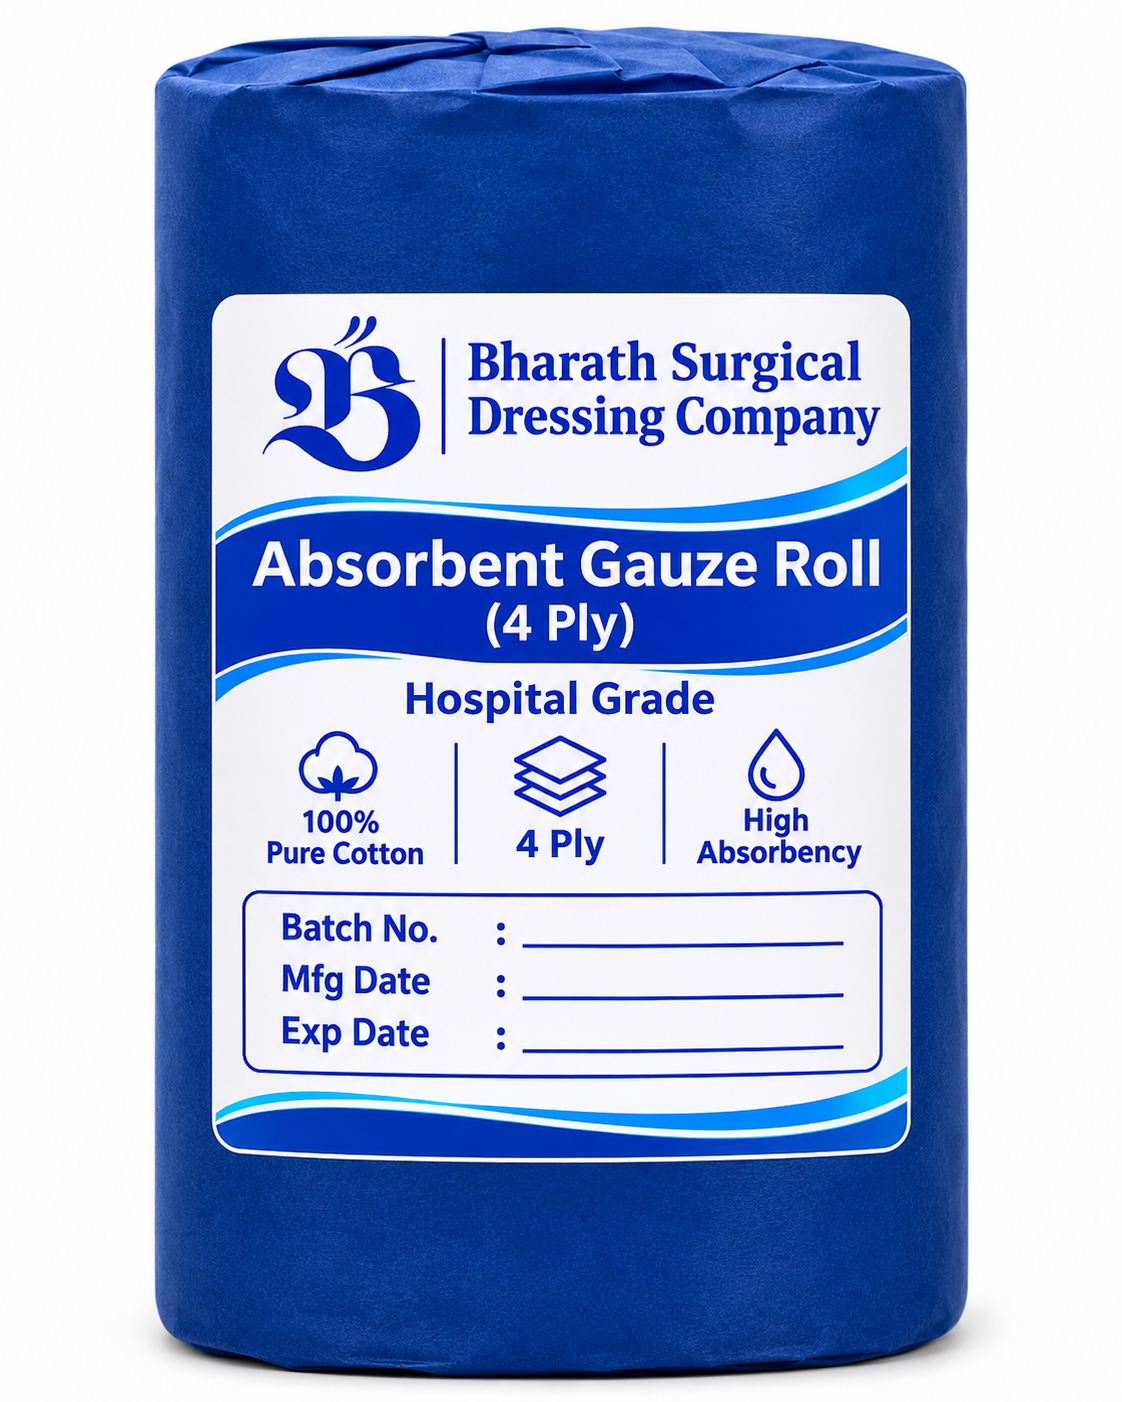
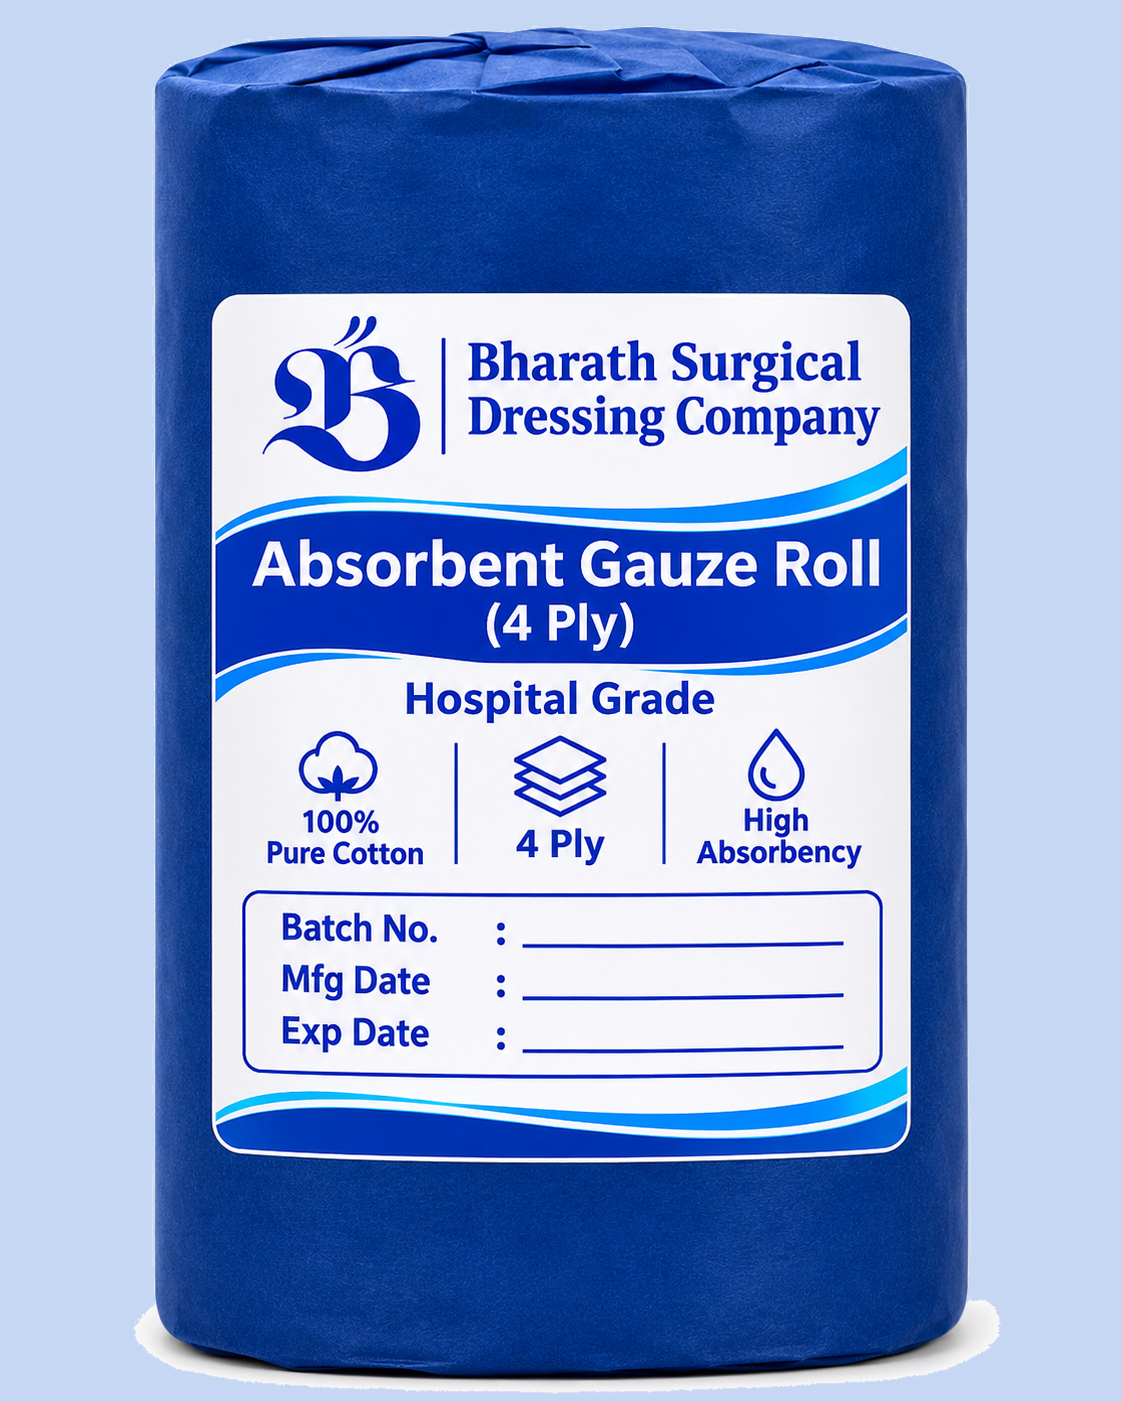
update photo and products

diff --git a/src/main.jsx b/src/main.jsx
@@ -23,6 +23,7 @@ const photoCounts = {
 const photoExtensions = {
   'ribbon-gauze': 'png',
   'gauze-4-ply-roll': 'png',
+  'gauze-slitting-roll': 'png',
   'gauze-swabs-sterile': ['jpg', 'jpg', 'png'],
 };
 
@@ -223,19 +224,37 @@ const products = [
     name: 'Gauze 4 Ply Roll',
     summary: 'Bleached white cotton gauze roll available in multiple sizes, ply options and mesh counts.',
     description:
-      'Gauze 4 Ply Roll is made from 100% cotton and is available in bleached white, sterile and non-sterile options, with or without an X-ray detectable thread. It is used to bandage wounds, absorb exudate, and protect and isolate the wound.',
+      'Gauze 4 Ply Roll is made from 100% cotton and is available in bleached white, sterile and non-sterile options, with or without an X-ray detectable thread. It is used to bandage the wound, absorb exudate, and protect and isolate the wound.',
     sizes: ['90cm x 100yds', '90cm x 100m', '90cm x 50yds', '90cm x 50m', '90cm x 2000m', 'Custom sizes available'],
     features: ['100% cotton', 'Bleached white', 'Sterile and non-sterile options', 'With or without X-ray detectable thread'],
     applications: ['Bandage wounds', 'Absorb wound exudate', 'Protect and isolate wounds'],
     specifications: [
-      { label: 'Size', value: '90cm x 100yds, 90cm x 100m, 90cm x 50yds, 90cm x 50m, 90cm x 2000m, and other sizes' },
+      { label: 'Size', value: '90cm x 100yds, 90cm x 100m, 90cm x 50yds, 90cm x 50m, 90cm x 2000m, etc.' },
       { label: 'Ply', value: '4-ply, 2-ply, 1-ply' },
-      { label: 'Mesh', value: '8 threads / 12 x 8 mesh; 12 threads / 19 x 11 mesh; 13 threads / 19 x 15 mesh; 17 threads / 26 x 18 mesh; 20 threads / 30 x 20 mesh; other options' },
+      { label: 'Mesh', value: '12 x 8 mesh, 19 x 11 mesh, 19 x 15 mesh, 26 x 18 mesh, 30 x 20 mesh, etc.' },
       { label: 'Color', value: 'Bleached white' },
       { label: 'Material', value: '100% cotton (40s, 32s, 21s, etc.)' },
       { label: 'Type', value: 'Without X-ray or with X-ray detectable thread' },
       { label: 'Sterilization', value: 'Sterile or non-sterile' },
-      { label: 'Application', value: 'Used to bandage wounds, absorb exudate, and protect and isolate the wound' }
+      { label: 'Application', value: 'Used to bandage the wound, absorb the exudate, and protect and isolate the wound' }
+    ]
+  },
+  {
+    slug: 'gauze-slitting-roll',
+    name: 'Gauze Slitting Roll',
+    summary: 'Bleached white cotton gauze roll in multiple widths, lengths and mesh options.',
+    description:
+      'Gauze Slitting Roll is made from 100% cotton and supplied in bleached white. Available in widths from 10cm to 50cm, lengths from 500m to 1000m, and plain or X-ray detectable options.',
+    sizes: ['10cm to 50cm'],
+    features: ['100% cotton', 'Bleached white', 'Multiple mesh options', 'Plain and X-ray detectable options'],
+    applications: ['Medical gauze and dressing use'],
+    specifications: [
+      { label: 'Sizes', value: '10cm to 50cm' },
+      { label: 'Length', value: '500m to 1000m' },
+      { label: 'Mesh', value: '12 x 8 mesh, 19 x 11 mesh, 19 x 15 mesh, 26 x 18 mesh, 30 x 20 mesh, etc.' },
+      { label: 'Color', value: 'Bleached white' },
+      { label: 'Material', value: '100% cotton (40s, 30s, 20s, etc.)' },
+      { label: 'Type', value: 'Plain or X-ray detectable' }
     ]
   },
   {
@@ -374,6 +393,7 @@ const categoryBySlug = {
   'gamjee-roll': 'Gauze & Bandage',
   'ribbon-gauze': 'Gauze & Bandage',
   'gauze-4-ply-roll': 'Gauze & Bandage',
+  'gauze-slitting-roll': 'Gauze & Bandage',
   'absorbent-cotton-roll': 'Surgical Cotton',
   'cotton-balls': 'Surgical Cotton',
   'patient-gown': 'Hospital Wear & Disposables',
@@ -896,8 +916,8 @@ function ProductCard({ product, index = 0 }) {
       style={{ '--delay': `${(index % 4) * 70}ms` }}
       href={`#/product/${product.slug}`}
     >
-      <div className={`product-image${product.slug === 'bandage-cloth' ? ' product-image-blue' : ''}${['ribbon-gauze', 'gauze-4-ply-roll'].includes(product.slug) ? ' product-image-contain' : ''}`}>
-        <img src={`${assets}${product.image}?v=10`} alt="" width="1024" height="1024" loading="lazy" decoding="async" />
+      <div className={`product-image${['ribbon-gauze', 'gauze-4-ply-roll'].includes(product.slug) ? ' product-image-contain' : ''}`}>
+        <img src={`${assets}${product.image}?v=15`} alt="" width="1024" height="1024" loading="lazy" decoding="async" />
       </div>
       <div className="product-body">
         <span className="product-category">{categoryBySlug[product.slug]}</span>
@@ -1218,7 +1238,7 @@ function ProductGallery({ product }) {
       <div className={`gallery-main${['ribbon-gauze', 'gauze-4-ply-roll'].includes(product.slug) ? ' image-fit-contain' : ''}`} onTouchStart={handleTouchStart} onTouchEnd={handleTouchEnd}>
         <img
           key={activeImage}
-          src={`${assets}${activeImage}?v=11`}
+          src={`${assets}${activeImage}?v=15`}
           alt={`${product.name}, photo ${activeIndex + 1} of ${count}`}
           width="1024"
           height="1024"
@@ -1245,7 +1265,7 @@ function ProductGallery({ product }) {
               aria-current={index === activeIndex ? 'true' : undefined}
               onClick={() => setActiveIndex(index)}
             >
-              <img src={`${assets}${image}?v=11`} alt="" width="1024" height="1024" />
+              <img src={`${assets}${image}?v=15`} alt="" width="1024" height="1024" />
             </button>
           ))}
         </div>

diff --git a/src/styles.css b/src/styles.css
@@ -852,7 +852,7 @@ p {
 .product-image {
   aspect-ratio: 1;
   overflow: hidden;
-  background: #ffffff;
+  background: #cbdffc;
 }
 
 .product-image img {
@@ -863,7 +863,7 @@ p {
 }
 
 .product-image-contain {
-  background: #ffffff;
+  background: #cbdffc;
 }
 
 .product-image-contain img {
@@ -1345,7 +1345,7 @@ p {
   position: relative;
   aspect-ratio: 1;
   overflow: hidden;
-  background: #ffffff;
+  background: #cbdffc;
   border-radius: var(--radius-lg);
   touch-action: pan-y;
 }
@@ -1358,7 +1358,7 @@ p {
 }
 
 .image-fit-contain {
-  background: #ffffff;
+  background: #cbdffc;
 }
 
 .image-fit-contain > img {
@@ -1404,7 +1404,7 @@ p {
 .gallery-thumbs button {
   padding: 0;
   overflow: hidden;
-  background: #ffffff;
+  background: #cbdffc;
   border: 2px solid transparent;
   border-radius: var(--radius-sm);
   cursor: pointer;
@@ -1427,7 +1427,7 @@ p {
 
 .gallery-thumbs button.image-fit-contain-thumb img {
   object-fit: contain;
-  background: #ffffff;
+  background: #cbdffc;
 }
 
 .detail-description {
@@ -2018,12 +2018,5 @@ p {
   }
 }
 
-/* Match the bandage cloth pack photo background to the neighboring product cards. */
-.product-image-blue {
-  background: #ffffff;
-}
 
-.product-image-blue img {
-  mix-blend-mode: multiply;
-}
 
